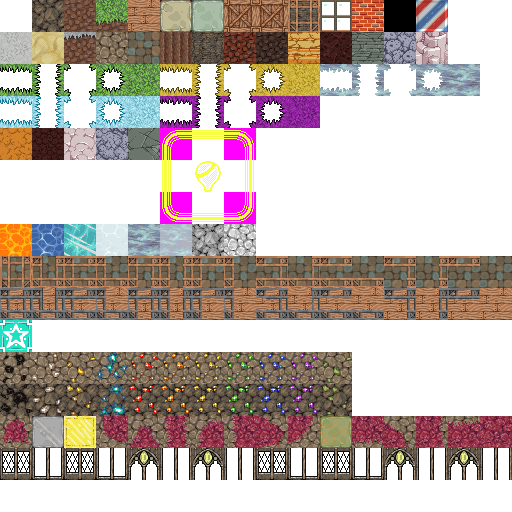
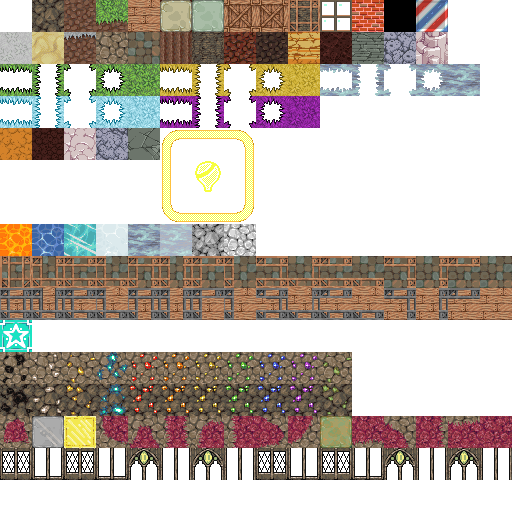
Object placement doesnt use a specific resource

Changed region(s): [[0.3125, 0.25, 0.5, 0.4375]]

diff --git a/DwarfCorp/Player/Crafting/Objects/PlaceObjectAct.cs b/DwarfCorp/Player/Crafting/Objects/PlaceObjectAct.cs
@@ -22,34 +22,25 @@ namespace DwarfCorp
             }
         }
 
-        public IEnumerable<Status> ReserveResources()
+        public IEnumerable<Status> LocateResources()
         {
-            if (Item.ResourcesReservedFor != null && Item.ResourcesReservedFor.IsDead)
+            var resources = Agent.World.FindUnreservedResource(Item.ItemType.ResourceCreated);
+            if (resources.HasValue(out var res))
             {
-                Item.ResourcesReservedFor = null;
+                res.Item2.ReservedFor = Agent;
+                Item.SelectedResource = res.Item2;
+                ItemSource = res.Item1;
+                yield return Status.Success;
             }
-
-            if (!Item.HasResources && Item.ResourcesReservedFor == null)
-            {
-                Item.ResourcesReservedFor = Agent;
-            }
-            yield return Status.Success;
+            else
+                yield return Status.Fail;
         }
 
         public IEnumerable<Status> UnReserve()
         {
-            if (Item.ResourcesReservedFor != null && Item.ResourcesReservedFor.IsDead)
-            {
-                Item.ResourcesReservedFor = null;
-            }
 
-            foreach (var status in Creature.Unreserve(Item.ItemType.CraftLocation))
-            {
-            
-            }
-
-            if (Item.ResourcesReservedFor == Agent)
-                Item.ResourcesReservedFor = null;
+            if (Item.SelectedResource.ReservedFor == Agent)
+                Item.SelectedResource.ReservedFor = null;
 
             Agent.Physics.Active = true;
             Agent.Physics.IsSleeping = false;
@@ -140,14 +131,15 @@ namespace DwarfCorp
             float time = 3 * (Item.ItemType.BaseCraftTime / Creature.AI.Stats.Intelligence);
             Act getResources = null;
 
-            getResources = new Select(new Domain(() => Item.HasResources || Item.ResourcesReservedFor != null, true),
-                                        new Domain(() => !Item.HasResources && (Item.ResourcesReservedFor == Agent || Item.ResourcesReservedFor == null),
-                                            new Sequence(
-                                                new Wrap(ReserveResources),
-                                                new StashResourcesAct(Agent, ItemSource, Item.SelectedResource))
-                                            | (new Wrap(UnReserve))
+            getResources = new Select(
+                new Domain(() => Item.HasResources || Item.ResourcesReservedFor != null, true),
+                new Domain(() => !Item.HasResources && (Item.ResourcesReservedFor == Agent || Item.ResourcesReservedFor == null),
+                    new Sequence(
+                        new Wrap(LocateResources),
+                        new StashResourcesAct(Agent, ItemSource, Item.SelectedResource)
+                    ) | (new Wrap(UnReserve))
                                             & false),
-                                        new Domain(() => Item.HasResources || Item.ResourcesReservedFor != null, true));
+                    new Domain(() => Item.HasResources || Item.ResourcesReservedFor != null, true));
             Act buildAct = null;
 
             buildAct = new Wrap(() => Creature.HitAndWait(true, () => 1.0f,
@@ -180,21 +172,32 @@ namespace DwarfCorp
             if (Item.WorkPile != null)
                 Item.WorkPile.Die();
 
-            Item.Entity.SetFlagRecursive(GameComponent.Flag.Active, true);
-            Item.Entity.SetVertexColorRecursive(Color.White);
-            Item.Entity.SetFlagRecursive(GameComponent.Flag.Visible, true);
+            var blackboard = new Blackboard();
+                blackboard.SetData("Resource", Item.SelectedResource);
+            blackboard.SetData<string>("CraftType", Item.ItemType.Name); // Todo: Used by anything?
 
-            foreach (var tinter in Item.Entity.EnumerateAll().OfType<Tinter>())
+            var previewBody = EntityFactory.CreateEntity<GameComponent>(
+                Item.ItemType.EntityName,
+                Item.Location.Center, blackboard).GetRoot();
+
+            previewBody.SetFlagRecursive(GameComponent.Flag.Active, true);
+            previewBody.SetVertexColorRecursive(Color.White);
+            previewBody.SetFlagRecursive(GameComponent.Flag.Visible, true);
+
+            foreach (var tinter in previewBody.EnumerateAll().OfType<Tinter>())
                 tinter.Stipple = false;
 
             if (Item.ItemType.Deconstructable)
-                Item.Entity.Tags.Add("Deconstructable");
+                previewBody.Tags.Add("Deconstructable");
 
             if (Item.ItemType.AddToOwnedPool)
-                Creature.Faction.OwnedObjects.Add(Item.Entity);
+                Creature.Faction.OwnedObjects.Add(previewBody);
 
             Creature.Manager.World.ParticleManager.Trigger("puff", Voxel.WorldPosition + Vector3.One * 0.5f, Color.White, 10);
             Creature.AI.AddXP((int)(5 * (Item.ItemType.BaseCraftTime / Creature.AI.Stats.Intelligence)));
+
+
+            Item.Entity.Delete();
 
             yield return Status.Success;
         }

diff --git a/DwarfCorp/World/Rail/RailHelper-Combinations.cs b/DwarfCorp/World/Rail/RailHelper-Combinations.cs
@@ -22,6 +22,7 @@ namespace DwarfCorp.Rail
             Name = "Rail",
             Type = CraftItem.CraftType.Object,
             AddToOwnedPool = true,
+            ResourceCreated = "Rail"
         };
 
         public static RailEntity CreatePreviewBody(ComponentManager Manager, VoxelHandle Location, JunctionPiece Piece)
@@ -170,33 +171,27 @@ namespace DwarfCorp.Rail
                     var startPos = body.Position + new Vector3(0.0f, -0.3f, 0.0f);
                     var endPos = body.Position;
 
-                    // Todo: Need to find a rail resource.
-                    var railResource = World.FindResource("Rail");
-                    if (railResource.HasValue(out var res))
+                    var designation = new PlacementDesignation
                     {
-                        var designation = new PlacementDesignation
-                        {
-                            Entity = body,
-                            WorkPile = new WorkPile(World.ComponentManager, startPos),
-                            OverrideOrientation = false,
-                            ItemType = RailCraftItem,
-                            SelectedResource = res.Item2,
-                            Location = new VoxelHandle(World.ChunkManager, GlobalVoxelCoordinate.FromVector3(body.Position)),
-                            HasResources = hasResources,
-                            ResourcesReservedFor = null,
-                            Orientation = 0.0f,
-                            Progress = 0.0f,
-                        };
+                        Entity = body,
+                        WorkPile = new WorkPile(World.ComponentManager, startPos),
+                        OverrideOrientation = false,
+                        ItemType = RailCraftItem,
+                        Location = new VoxelHandle(World.ChunkManager, GlobalVoxelCoordinate.FromVector3(body.Position)),
+                        HasResources = hasResources,
+                        ResourcesReservedFor = null,
+                        Orientation = 0.0f,
+                        Progress = 0.0f,
+                    };
 
-                        body.SetFlag(GameComponent.Flag.ShouldSerialize, true);
-                        World.ComponentManager.RootComponent.AddChild(designation.WorkPile);
-                        designation.WorkPile.AnimationQueue.Add(new EaseMotion(1.1f, Matrix.CreateTranslation(startPos), endPos));
-                        World.ParticleManager.Trigger("puff", endPos, Color.White, 10);
+                    body.SetFlag(GameComponent.Flag.ShouldSerialize, true);
+                    World.ComponentManager.RootComponent.AddChild(designation.WorkPile);
+                    designation.WorkPile.AnimationQueue.Add(new EaseMotion(1.1f, Matrix.CreateTranslation(startPos), endPos));
+                    World.ParticleManager.Trigger("puff", endPos, Color.White, 10);
 
-                        var task = new PlaceObjectTask(designation) { ItemSource = res.Item1 };
-                        World.PersistentData.Designations.AddEntityDesignation(body, DesignationType.PlaceObject, designation, task);
-                        assignments.Add(task);
-                    }
+                    var task = new PlaceObjectTask(designation);
+                    World.PersistentData.Designations.AddEntityDesignation(body, DesignationType.PlaceObject, designation, task);
+                    assignments.Add(task);
                 }
 
                 if (GodModeSwitch)

diff --git a/DwarfCorp/Player/Crafting/Objects/PlaceObjectTool.cs b/DwarfCorp/Player/Crafting/Objects/PlaceObjectTool.cs
@@ -26,7 +26,6 @@ namespace DwarfCorp
 
         public CraftItem CraftType { get; set; }
         public GameComponent PreviewBody { get; set; }
-        public MaybeNull<Tuple<Stockpile, Resource>> SelectedResource;
         private float Orientation = 0.0f;
         private bool OverrideOrientation = false;
         private bool RightPressed = false;
@@ -35,8 +34,6 @@ namespace DwarfCorp
         private GameComponent CreatePreviewBody()
         {
             Blackboard blackboard = new Blackboard();
-            if (SelectedResource.HasValue(out var selRes))
-                blackboard.SetData("Resource", selRes.Item2);
 
             blackboard.SetData<string>("CraftType", CraftType.Name);
 
@@ -56,7 +53,7 @@ namespace DwarfCorp
             {
                 case (InputManager.MouseButton.Left):
                     {
-                        if (SelectedResource.HasValue(out var selectedRes))
+                        if (Library.GetResourceType(CraftType.ResourceCreated).HasValue(out var selectedRes))
                         {
                             if (ObjectHelper.IsValidPlacement(World.UserInterface.VoxSelector.VoxelUnderMouse, CraftType, World, PreviewBody, "build", "built"))
                             {
@@ -72,7 +69,6 @@ namespace DwarfCorp
                                     Orientation = Orientation,
                                     OverrideOrientation = OverrideOrientation,
                                     Entity = PreviewBody,
-                                    SelectedResource = selectedRes.Item2,
                                     WorkPile = new WorkPile(World.ComponentManager, startPos)
                                 };
 
@@ -80,7 +76,7 @@ namespace DwarfCorp
                                 newDesignation.WorkPile.AnimationQueue.Add(new EaseMotion(1.1f, Matrix.CreateTranslation(startPos), pos));
                                 World.ParticleManager.Trigger("puff", pos, Color.White, 10);
                                                                
-                                World.TaskManager.AddTask(new PlaceObjectTask(newDesignation) { ItemSource = selectedRes.Item1 });
+                                World.TaskManager.AddTask(new PlaceObjectTask(newDesignation));
 
                                 if (!HandlePlaceExistingUpdate())
                                 {
@@ -89,10 +85,7 @@ namespace DwarfCorp
                                     World.UserInterface.ChangeTool("SelectUnits");
                                 }
                                 else
-                                {
-                                    SelectedResource = World.FindResource(CraftType.Name);
                                     PreviewBody = CreatePreviewBody();
-                                }
                             }
                         }
 
@@ -116,10 +109,7 @@ namespace DwarfCorp
                 ((PlacementDesignation)designation.Tag).ItemType.Name == CraftType.Name).ToList();
 
             if (!resources.Any())
-            {
-                SelectedResource = null;
                 return false;
-            }
 
             return true;
         }
@@ -135,8 +125,6 @@ namespace DwarfCorp
 
             if (!HandlePlaceExistingUpdate())
                 World.UserInterface.ShowToolPopup("Unable to place any more.");
-
-            SelectedResource = World.FindResource(CraftType.Name);
 
             PreviewBody = CreatePreviewBody();
             Orientation = 0.0f;

diff --git a/DwarfCorp/Player/Crafting/Resources/CraftResourceAct.cs b/DwarfCorp/Player/Crafting/Resources/CraftResourceAct.cs
@@ -22,6 +22,7 @@ namespace DwarfCorp
         public List<ResourceTypeAmount> RawMaterials;
         public string Noise { get; set; }
         public ResourceDes Des;
+        public String ResourceCreated;
 
         public CraftResourceAct()
         {
@@ -109,7 +110,7 @@ namespace DwarfCorp
                 yield break;
             }
 
-            String ResourceCreated = ItemType.ResourceCreated;
+            ResourceCreated = ItemType.ResourceCreated;
 
             switch (ItemType.CraftActBehavior)
             {
@@ -197,7 +198,7 @@ namespace DwarfCorp
             }
 
             for (var i = 0; i < ItemType.CraftedResultsCount; ++i)
-                Creature.Inventory.AddResource(new Resource(ItemType.ResourceCreated));
+                Creature.Inventory.AddResource(new Resource(ResourceCreated));
             Creature.AI.AddXP((int)ItemType.BaseCraftTime);
             Des.Finished = true;
             yield return Status.Success;

diff --git a/DwarfCorp/World/WorldManager-Resources.cs b/DwarfCorp/World/WorldManager-Resources.cs
@@ -146,6 +146,15 @@ namespace DwarfCorp
             return null;
         }
 
+        public MaybeNull<Tuple<Stockpile, Resource>> FindUnreservedResource(String Type)
+        {
+            foreach (var stockpile in EnumerateZones().OfType<Stockpile>())
+                foreach (var resource in stockpile.Resources.Enumerate())
+                    if (resource.Type == Type && resource.ReservedFor == null)
+                        return Tuple.Create(stockpile, resource);
+            return null;
+        }
+
         public bool AddResources(Resource Resource)
         {
             bool added = false;

diff --git a/DwarfCorp/Player/Crafting/Objects/PlaceObjectTask.cs b/DwarfCorp/Player/Crafting/Objects/PlaceObjectTask.cs
@@ -10,7 +10,6 @@ namespace DwarfCorp
     internal class PlaceObjectTask : Task
     {
         public PlacementDesignation PlacementDesignation;
-        public Stockpile ItemSource;
 
         public PlaceObjectTask()
         {
@@ -63,7 +62,7 @@ namespace DwarfCorp
 
         public override MaybeNull<Act> CreateScript(Creature creature)
         {
-            return new PlaceObjectAct(creature.AI, PlacementDesignation) { ItemSource = ItemSource };
+            return new PlaceObjectAct(creature.AI, PlacementDesignation);
         }
 
         public override bool ShouldRetry(Creature agent)

diff --git a/DwarfCorp/World/Economy/Resources/Resource.cs b/DwarfCorp/World/Economy/Resources/Resource.cs
@@ -12,6 +12,9 @@ namespace DwarfCorp
         [JsonProperty] private String _Type;
         [JsonIgnore] public String Type => _Type;
 
+        [JsonProperty] public CreatureAI ReservedFor = null;
+
+
         [JsonIgnore] private MaybeNull<ResourceType> _cachedResourceType = null;
         [JsonIgnore] public MaybeNull<ResourceType> ResourceType
         {
